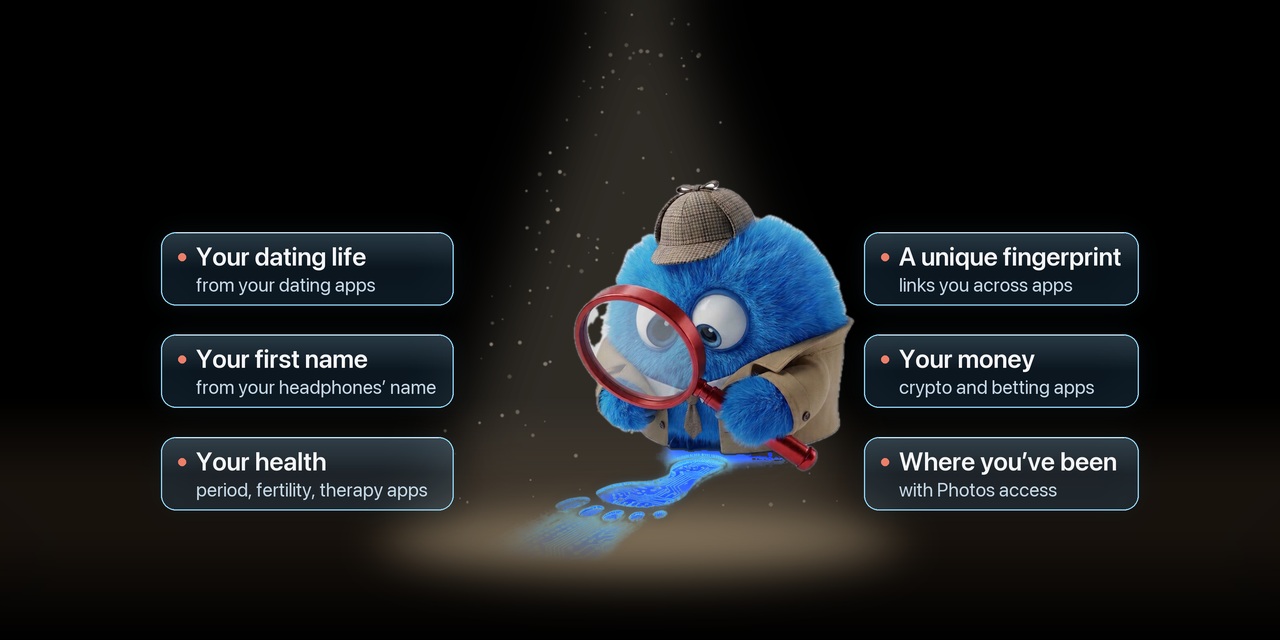
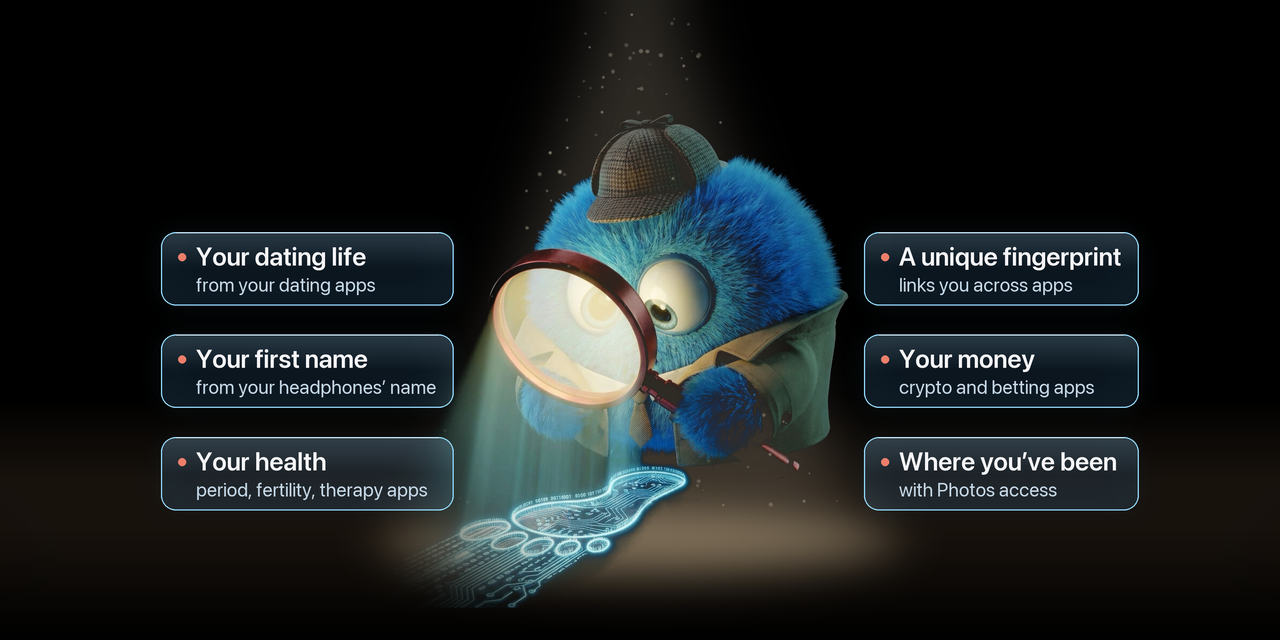
Header uses the owner's dark mascot artwork on the stage

Changed region(s): [[0.3438, 0.1875, 0.6875, 0.9688]]

diff --git a/scripts/make-creative-assets.py b/scripts/make-creative-assets.py
@@ -146,9 +146,20 @@ def header(out):
         r = random.uniform(2, 6)
         dd.ellipse((x - r, y - r, x + r, y + r), fill=(255, 240, 215, random.randint(40, 130)))
     c.alpha_composite(dust.filter(ImageFilter.GaussianBlur(1.5)))
-    # The detective, centre stage, feet on the boards.
-    m = mascot(int(h * 0.60))
-    c.alpha_composite(m, ((w - m.width) // 2 + int(w * 0.02), floor_y + int(h * 0.04) - m.height))
+    # The detective, centre stage: the owner's dark artwork (store/creative/mascot-dark.jpg), its
+    # near-black ground feathered into the stage so only he and his glowing footprint show.
+    art = Image.open(ROOT / "store/creative/mascot-dark.jpg").convert("RGB")
+    size = int(h * 0.86)
+    art = art.resize((size, size), Image.LANCZOS)
+    feather = Image.new("L", (size, size), 0)
+    ImageDraw.Draw(feather).ellipse((size * 0.06, size * 0.04, size * 0.94, size * 1.02), fill=255)
+    feather = feather.filter(ImageFilter.GaussianBlur(size * 0.07))
+    # Keep only what is lighter than the artwork's ground, so no dark square shows on the stage.
+    lum = art.convert("L").point(lambda v: 0 if v < 14 else min(255, (v - 14) * 6))
+    from PIL import ImageChops
+    alpha = ImageChops.multiply(feather, lum)
+    piece = art.convert("RGBA"); piece.putalpha(alpha)
+    c.alpha_composite(piece, ((w - size) // 2, int(h * 0.95) - size))
     # A soft vignette pulls the eye to the light.
     vig = Image.new("L", (w, h), 0)
     ImageDraw.Draw(vig).ellipse((-w * 0.15, -h * 0.35, w * 1.15, h * 1.25), fill=255)
